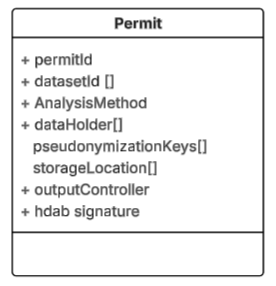
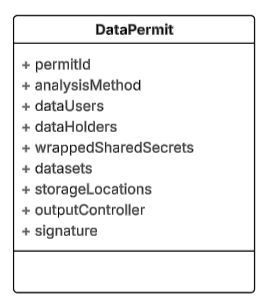
whitepaper added together with various minor edits

Changed region(s): [[0.0296, 0.0, 0.9778, 0.979]]

diff --git a/data_holder.py b/data_holder.py
@@ -55,7 +55,7 @@ class DataHolder:
         raise ValueError(f"No encrypted key entry found for holder {self.name}")
 
     def pseudonymize_identifier(self, identifier: str, domain: str, K: bytes) -> str:
-        """Deterministische pseudonym met HMAC-SHA256."""
+        """generate pseudonym HMAC-SHA256."""
         message = (identifier + domain).encode("utf-8")
         return hmac.new(K, message, hashlib.sha256).hexdigest()
 
@@ -64,16 +64,17 @@ class DataHolder:
         signed_permit_json: bytes,
         identifiers: list[str]
     ) -> list[str]:
-        """Volledig proces: verifiëren → expiratie check → K herstellen → pseudonimiseren."""
+        
+        # verify
         signed_permit = json.loads(signed_permit_json.decode("utf-8"))
         permit_payload = self._verify_permit(signed_permit)
 
-        # Expiratie controle
+        # check expiration
         valid_until = datetime.fromisoformat(permit_payload["valid_until"])
         if valid_until < datetime.now(timezone.utc):
             raise ValueError("Permit has expired")
 
-        # Herstel master K en pseudonimiseer
+        # recover K and pseudonymize
         master_K = self._recover_master_k(permit_payload)
         domain = permit_payload["domain"]
 

diff --git a/data_permit_issuer.py b/data_permit_issuer.py
@@ -22,10 +22,10 @@ class DataPermitIssuer:
         validity_years: int = 1,
         include_raw_k: bool = False
     ) -> dict:
-        # 1. Generate master shared secret K
+        # Generate master shared secret K
         master_K = os.urandom(32)
 
-        # 2. For each holder: encapsulate + encrypt master_K with derived key
+        # For each holder: encapsulate + encrypt master_K with derived key
         encrypted_keys = []
         for holder in data_holders:
             kem = oqs.KeyEncapsulation("ML-KEM-768")
@@ -46,7 +46,7 @@ class DataPermitIssuer:
                 "encrypted_master_k_base64": base64.b64encode(ct).decode("utf-8")
             })
 
-        # 3. Build payload and sign
+        # Build payload and sign
         issued_at = datetime.now(timezone.utc)
         valid_until = issued_at + relativedelta(years=validity_years)
 
@@ -58,7 +58,6 @@ class DataPermitIssuer:
             "encrypted_keys": encrypted_keys
         }
 
-        # Optional debug print (fixed)
         print(">>>>>> Permit payload (before signing):")
         print(json.dumps(permit_payload, indent=2))
 

diff --git a/utils.py b/utils.py
@@ -11,6 +11,6 @@ def generate_ml_kem_keypair():
 def generate_ml_dsa_keypair():
     """Generate ML-DSA-65 keypair."""
     sig = oqs.Signature("ML-DSA-65")
-    public_key = sig.generate_keypair()  # Must call this first
-    secret_key = sig.export_secret_key()  # Now available
+    public_key = sig.generate_keypair()
+    secret_key = sig.export_secret_key()
     return {"public_key": public_key, "secret_key": secret_key}

diff --git a/WHITEPAPER.md b/WHITEPAPER.md
@@ -1,34 +1,64 @@
 ## A Cryptographic Data Permit Mechanism for Secure Secondary Use of Health Data in the European Health Data Space
 
-#### A Privacy-Enhancing Proposal the European Health Data Space (EHDS) originally defined for the Dutch Health Data Access Body (HDAB-NL)
+
+####  HDAB-Coordinated At-Source Pseudonymization Enabling Deterministic Data Linking Across Multiple Data Holders  
+
 ---
 
 ### Abstract
-The European Health Data Space (EHDS) Regulation (EU) 2025/327 enables secondary use of electronic health data while prioritizing privacy. By default, data must be anonymized; pseudonymization is allowed only when necessary to preserve utility, particularly for linking records across multiple datasets on national level and across european member states.
 
-Traditional approaches rely on central pseudonymization, requiring data holders (DH) to transmit identifiable data to a central party, which introduces significant privacy risks during transfer.
+The European Health Data Space (EHDS) Regulation (EU) 2025/327 promotes the secondary use of electronic health data while upholding the highest standards of privacy protection. By default, data processed for secondary purposes must be anonymized; pseudonymization is permitted only when essential to preserve analytical utility—particularly to enable reliable linkage of records across datasets from multiple data holders, whether at national level or between EU Member States.
 
-This proposal introduces a cryptographic data permit mechanism enabling pseudonymization at source with consistent, deterministic pseudonyms across all holders. This allows record linking across multiple datasets in a single Secure Processing Environment (SPE) without raw identifiers ever leaving the data holder's premises**.
+Conventional approaches typically employ central pseudonymization services, requiring data holders to transmit identifiable personal data to a trusted third party. This introduces substantial privacy and security risks during data transfer.
 
-The core innovation is key wrapping: an application-specific shared secret is securely distributed to authorized data holders via a **cryptographic data permit**, enabling decentralized yet consistently synchronized pseudonym generation.
+This proposal introduces a cryptographic data permit mechanism that enables pseudonymization at source while ensuring consistent, deterministic pseudonyms across all involved data holders. As a result, reliable record linkage becomes possible within a single Secure Processing Environment (SPE) without raw personal identifiers ever leaving the data holder’s controlled environment.
+
+The core innovation lies in the synergistic combination of the following two elements:
+
+- the use of the data permit as an **active cryptographic** instrument that serves as a secure, auditable authorization and coordination token, and  
+- the use of **key wrapping** to securely distribute a data-application specific shared secret to authorized data holders through this permit.
+
+Together, these enable fully decentralized yet perfectly synchronized pseudonym generation, eliminating the need for raw shared secret transfers while preserving end-to-end privacy and security.
 
 ### Introduction
-The EHDS requires each Member State to designate a HDAB organization to facilitate secondary use of health data. In the Netherlands, the **HDAB-NL program**—led by the Ministry of Health, Welfare and Sport (VWS) with Health-RI, RIVM, CBS, and ICTU—is building infrastructure, governance, a DAAMs, a metadata catalog, and Secure Processing Environments.
 
-#### Key Challenges with multi data holder data integration
-- **Central pseudonymization**: Requires transfer of raw identifiers, introducing postential privacy and security risks.  
-- **Independent at-source pseudonymization**: Results in inconsistent pseudonyms → reliance on fuzzy matching → reduced linkage quality.
-- Coordination of key- and data exchange, end-to-end security
-This proposal aligns with EHDS data minimization principles, maximizing privacy while preserving high-quality data linkage.
+The European Health Data Space (EHDS) Regulation requires each Member State to designate a Health Data Access Body (HDAB) responsible for facilitating the secure secondary use of electronic health data. In the Netherlands, the HDAB-NL programme—led by the Ministry of Health, Welfare and Sport (VWS) in collaboration with Health-RI, RIVM, CBS, and ICTU—is developing the necessary infrastructure, metadata catalogue, data access application management system (DAAMs) and Secure Processing Environments (SPEs).
 
-The proposed solution...
+**Key Challenges in Multi-Data-Holder Integration**
+Integrating data from multiple independent data holders while complying with strict EHDS privacy requirements presents several fundamental difficulties:
+- **Central pseudonymization**: This approach requires data holders to transfer raw personal identifiers to a trusted third party, creating significant privacy and security risks during transmission and temporary storage.
+- **Independent at-source pseudonymization**: While safer, it produces inconsistent pseudonyms across holders, forcing reliance on probabilistic (fuzzy) matching techniques and resulting in reduced linkage quality and analytical utility.
+- **Coordination and end-to-end security**: Orchestrating secure key distribution, data exchange, access controls, and workflow synchronisation across decentralised parties remains complex and error-prone.
+
+This proposal directly addresses these challenges. It aligns fully with EHDS data minimisation and privacy-by-design principles by enabling pseudonymization at source with deterministic consistency, thereby maximising privacy protection while preserving high-quality cross-data-holder record linkage.
+
+### The Proposed Solution
+The solution introduces a **cryptographic data permit mechanism** in which the HDAB issues a machine-readable, digitally signed permit that serves as both an authorisation token and a secure coordination instrument. Through **key wrapping**, the permit securely distributes a project-specific shared secret to all authorised data holders, enabling them to perform consistent deterministic pseudonymization locally. The resulting pseudonymised datasets are uploaded to designated storage locations, where they can be mounted and linked within a Secure Processing Environment—without raw personal identifiers ever leaving the data holders’ controlled environments. 
+
+This approach eliminates the privacy risks of central identifier transfer, avoids the linkage degradation of uncoordinated pseudonymization, and provides the HDAB with a robust mechanism to orchestrate secure, auditable, and EHDS-compliant multi-holder data provision. 
+
+The mechanism is equally applicable to cross-border data linkage. However, the effectiveness of deterministic pseudonymization for reliable record linkage depends on the availability of uniform or harmonised personal identifiers (e.g., national ID numbers, health insurance IDs, or other stable direct identifiers) across the participating data holders and Member States. In cases where such uniform identifiers are absent or inconsistent, supplementary techniques—such as probabilistic matching or additional privacy-preserving record linkage methods—may be required to achieve sufficient linkage quality.
+
+In order to facilitate seamless, privacy-preserving cross-border secondary use of health data as envisaged by the EHDS, this cryptographic data permit mechanism is proposed for adoption at the European level.
 
 ### Core Concept
-The core idea is to use the **data permit as a cryptographically signed authorization and coordination token** that enables secure, privacy-preserving secondary use of health data **without the need to disclose personal identifiers**. This permit could be additional to the 'paper' permit or can be embedded in the permit.
 
-The data permit acts as an machine-readable **active cryptographic mechanism** that enables secure data exchange, authorizations and record linkage across datasets.
+The core concept revolves around transforming the data permit into a **cryptographically signed, machine-readable authorization and coordination token**. This active cryptographic instrument enables secure, privacy-preserving secondary use of electronic health data **without ever disclosing raw personal identifiers to third parties** or the data user.
 
-### Permit Mechanism Description
+The permit can either complement an existing administrative ("paper") permit or fully integrate its cryptographic functionality into the standard EHDS data permit. By embedding securely wrapped shared secrets and explicit workflow instructions, the data permit becomes an **operational cryptographic mechanism**. 
+
+A operational cryptographic data permit facilitates:
+- secure authorization of data holders and data users,
+- coordinated at-source pseudonymization with deterministic consistency
+- controlled provision of pseudonymized datasets to designated storage locations
+- reliable record linkage across multiple pseudonymized datasets within a SPE
+
+This design ensures end-to-end privacy while providing the Health Data Access Body (HDAB) with a powerful, auditable tool for orchestrating compliant multi-holder and cross-border data access.
+
+### Detailed Solution Description
+
+#### Mechanism Overview
+
 ![Diagram](images/figure1.png)
 Figure 1. Mechanism Overview
 
@@ -37,19 +67,29 @@ Figure 1. Mechanism Overview
 3. Data holders **unwrap the shared secret**, with their own private key
 4. Data holders perform **local pseudonymization** on the requested dataset based on the shared secret
 5. Data holders place the pseudonymized dataset on the **specific storage location** as indicated by the permit
-6. In the SPE, the authenticated data user uploads the permit, ingests the pseudonymized datasets on storage locations indicated in the permit and and **links the datasets** based on the pseudonomized records
+6. In the SPE, the authenticated data user uploads the permit, ingests the pseudonymized datasets from the storage locations indicated in the permit and and **links the datasets** based on the pseudonomized records
 7. The linked dataset is **available for analysis**
-
-Additionally
-The research result can be made available in a dedicated storage location (indicated in the permit) for an output controller to be checked using a separate SPE, specifically for this purpose, without risk on exposing the linked dataset to the controller.
-
-### Detailed Solution Description
+- Once the research is completed, output control can be carried out by the output controller as indicated in the permit
 
 
-#### Permit
+#### Identities
+
+Data holders generate a public–private key pair upfront, leveraging eIDAS-compatible or national public key infrastructure (PKI). The corresponding public keys are registered with the HDAB and are used to authenticate the data holders and to enable secure cryptographic operations, such as the wrapping of shared secrets.
+
+Data users are required to generate and register certified public keys with the HDAB infrastructure. These keys are used to establish their identity, authenticate access requests, and, where applicable, to verify authorisations and signatures associated with issued permits. All registered keys must be issued or certified by a trusted certificate authority recognised by the HDAB.
+
+Key lifecycle management, including key rotation, revocation, and expiry, is governed by the applicable PKI policies and is enforced by the HDAB to ensure continued trust in participant identities.
+
+#### Permit issuance
+
+The HDAB generates a random, data-application-specific shared secret K. For each authorised data holder, K is individually encrypted ("wrapped") using the holder’s registered public key, e.g., via RSA-OAEP or post-quantum ML-KEM. Demos included, RSA: [demo_rsa.py](demo_rsa.py), Post Quantum KEM/DSA: [demo_pq.py](demo_pq.py)
+
+The resulting data permit object (Figure 2) binds together the authorised parties, datasets, analysis method, and cryptographic material required to securely execute the approved data application.
 
 ![Diagram](images/figure2.png)
-Figure 2. Data permit object attributes
+Figure 2. Data permit object
+
+Data permit attributes:
 
 - **permitId** is the unique identifier given to the permit by the issuing HDAB
 - **dataUsers** list of authorized data users
@@ -60,51 +100,50 @@ Figure 2. Data permit object attributes
 - **outputController** identity of the designated output controller
 - **signature** added to the permit by the issuing HDAB for verification by the data holders and validated at the issuing certificate authority
 
+Once issued, the permit is distributed to the relevant data holders and data users. Each data holder verifies the HDAB signature, decrypts its wrapped instance of K, and enforces access and processing controls in accordance with the permit attributes. The shared secret K is used exclusively within the scope of the specified data application and analysis method
+
 > **Note:** Above permit only shows attributes relavant for demonstrating the mechanism, full sample permit available in [sample_permit.json](sample_permit.json) 
 
-#### Identities
-- Data holders generate a keypair upfront and register certified public keys with the HDAB (leveraging eIDAS-compatible infrastructure or national PKI infrastructure)
-- data users use an eIDAS-compatible identity
-
 #### Authorization
-- **authorization** on the storage locations for the participants of the data application, typically data holders to be able to store the pseudonomized data sets and for the data user to be access the data sets in the storage locations.
+
+The data permit explicitly defines and enables the following authorisations:
+- Write access for data holders: Each authorised data holder receives temporary, scoped write permissions to the specific storage location(s) indicated in the permit for their dataset(s). This allows them to upload the locally pseudonymised dataset after processing, while preventing read access to other holders’ data or unrelated locations.
+- Read access for data users in the SPE: Authenticated data users (researchers) are granted read-only access to all relevant storage locations, but only within the Secure Processing Environment. The SPE mounts these locations based on the validated permit, ensuring that data ingestion occurs in an isolated, controlled setting with no possibility of exfiltration of raw or pseudonymised data outside the SPE.
+- No direct access outside the workflow: Neither data holders nor data users can access the storage locations outside the permit-defined context. Permissions are time-bound (aligned with the permit’s validity period) and purpose-specific, automatically revoked upon expiry or completion of the application.
+- Auditable and revocable: All access grants are traceable to the signed permit, enabling the HDAB to monitor compliance and revoke permissions if necessary (e.g., in case of misuse or project termination). d
 
 #### Key exchange
-- HDAB public key
-For simplicity, in the current implementation, the public key of the HDAB is added to the permit. The certificate is to be validated at the issuing certificate authority.
-- Public keys of Data holders are added to the permit in the list of data holders together with an index so that the certificate can be ascociated with the dataset id and storage location
+
+- **HDAB public key** The permit includes the HDAB’s public key to enable participants to verify the HDAB’s digital signature on the permit itself. In this proof-of-concept implementation, the full public key is embedded directly in the permit for simplicity and immediate usability. In production deployments, data holders and SPEs should validate the HDAB’s signing certificate against a trusted national or eIDAS-qualified certificate authority, eliminating the need to embed the key and allowing standard revocation checking (CRL/OCSP)
+- **Data Holder Public Keys** Each authorised data holder registers a certified public key (e.g., RSA-2048/3072 or post-quantum equivalent) with the HDAB in advance.
+These public keys are included in the permit within the structured dataHolders array
+- **Data User Identities** The identities of authorised data users (researchers or analysts) are explicitly listed in the permit under the dataUsers field. Each entry includes a strong, verifiable identifier (preferably an eIDAS-qualified electronic identification or a national researcher registry URN), along with optional human-readable attributes such as name, organisation, and role.
+These identities serve as the basis for authentication and access control within the Secure Processing Environment (SPE). The SPE validates the uploaded permit and grants access only to users whose authenticated identity matches one of the listed entries, ensuring that only approved individuals can ingest datasets, perform linkage, and conduct analysis.
 
 #### Key wrapping
-In order to be able to share the pseudonymization key across data holders:
-1. HDAB generates a random shared secret `K` scoped to the project (and potentially validity period).  
-2. For each authorized holder `DHᵢ` the shared secret K is encrypted so that only that specific data holder is able to decrypt a single shared secret. This means that for a data application with 3 dataholders the shared secret is available three times, for all data holder but encrypted with the public key of the specific dataholder.
+
+In order to be able to share the pseudonymization key across data holders, the designated HDAB generates a random shared secret `K`, specific for each data application.    For each authorized holder `DHᵢ` the shared secret `K` is encrypted so that only that specific data holder is able to decrypt a single shared secret. This means that for a data application with multiple dataholders the wrapped shared secret appears multiple times in in the permit, each wrapped for a specific dataholder.
 
    ```text
    wrappedSecretᵢ = PK-Encrypt(PubKeyᵢ, K)
    ```
+Each dataholder unwraps the shared secret K and uses this for pseudonymization. There is no reason for the data holder to store the shared secret since it it can be directly derived from the permit.
 
 ##### storage locations
 
+The cryptographic data permit explicitly designates storage locations for the pseudonymised datasets contributed by each data holder. These locations—typically access-controlled object storage buckets (e.g., S3-compatible endpoints), encrypted repositories, or equivalent cloud-based storage services—act as secure, neutral intermediaries between data holders and the Secure Processing Environment (SPE).
 
+## Extensibility
 
-### Key Benefits
-- Raw personal data never leaves the data holder’s environment  
-- Deterministic linkage across multiple holders  
-- Full EHDS compliance (Recital 72, Article 33)  
-- Post-quantum ready: Supports ML-KEM for key encapsulation and ML-DSA for signing  
-- Extendable by design via `analysis_mode`. Currenlty on deterministric pseudonymization but the mechanism allows for future processing types like multi-party computation, federated analytics and federated learning
+This mechanism can also be extended to support additional privacy-preserving analysis paradigms beyond deterministic pseudonymization. By including an extensible analysisMode field in the permit, future modes such as secure multi-party computation (MPC) queries, federated learning, and federated analytics can be supported by instructing the data holders how to prepare the data. In these modes, the same cryptographic permit serves as the coordination and authorisation vehicle.
 
-### Features / implementation choices
-- Classic RSA mode: RSA-OAEP key transport + RSA-PSS signing  
-- Post-quantum mode: ML-KEM-768 + AES-GCM wrapping + ML-DSA-65 signing  
-- Deterministic pseudonymization via HMAC-SHA256 
-- Time-bound, domain-scoped, purpose-specific permits  
-- Canonical JSON payload, digitally signed by the issuing HDAB  
-- Modular, pure-Python, well-documented, extensible code  
-- the pseudonyms enable anonynization of the records which relation to patients can be made by the dataholders   
+### Conclusion
 
-#### Technology / implementation choices
-- based on asymetric cryptography
-- peer-to-peer API based model
-- no propriatary networks required
-- the data itself is encrypted as well as the transport and while at rest
+The cryptographic data permit mechanism presented in this whitepaper offers a robust, privacy-enhancing solution for the secure secondary use of electronic health data within the European Health Data Space (EHDS). By transforming the conventional data permit into an active cryptographic instrument, it enables at-source pseudonymization with deterministic consistency across multiple data holders, while ensuring that raw personal identifiers never leave the controlled environment of the data holder.
+
+**Key Benefits**
+- Maximum Privacy Protection: Raw personal data remains confined to the data holder's premises, eliminating the risks associated with centralised identifier transfers.
+- High-Quality Record Linkage: Deterministic pseudonyms allow precise cross-data-holder and cross-border linkage in Secure Processing Environments, preserving essential analytical utility.
+- Full EHDS Compliance: The approach aligns with the Regulation's emphasis on data minimisation, pseudonymization only when necessary (as justified for linkage under relevant provisions, including Recital 72 on early de-identification), and strong technical safeguards.
+- Future-Proof Design: Post-quantum readiness through support for ML-KEM key encapsulation and ML-DSA signing protects against emerging quantum threats.
+

diff --git a/README.md b/README.md
@@ -1,4 +1,4 @@
-# A Cryptographic Data Permit Mechanism for Secure Secondary Use of Health Data in the European Health Data Space
+# A Cryptographic Data Permit Mechanism for Secure Secondary Use of Health Data in the European Health Data Space (EHDS)
 
 [![EHDS Proposal](https://img.shields.io/badge/EHDS-Proposal-blue)](https://eur-lex.europa.eu/legal-content/EN/TXT/?uri=CELEX:32025R0327)
 [![Whitepaper](https://img.shields.io/badge/View-Whitepaper-blue?logo=github)](WHITEPAPER.md)
@@ -7,26 +7,29 @@
 [![Python](https://img.shields.io/badge/Python-3.10+-blue)](https://www.python.org/)
 
 
-### Overview
+### Introduction
 
 This repository contains a proof-of-concept implementation of a **cryptographic data-permit mechanism** for secure data exchange and pseudonymization across data-holder environments governed by a Health Data Access Body (HDAB), in line with the European Health Data Space (EHDS) Regulation (EU) 2025/327.
 
-The mechanism transforms the standard EHDS data permit into an **active cryptographic coordination token**, enabling secure exchange and combination of health from different sources while keeping personal identifiers (like BSN, the Dutch Citizen Service Number) decentralized at the data holders.
+The mechanism transforms the EHDS data permit issued by a Health Data Access Body (HDAB) into an **active cryptographic coordination token**, enabling secure exchange and combination of healthdata from different sources while keeping personal identifiers (ie. BSN (the Dutch Citizen Service Number)) decentralized at the data holders.
 
-This proof-of-concept repository is accompanied by a detailed whitepaper that describes the full protocol design, security considerations, EHDS compliance rationale, threat model, and planned extensions for advanced privacy-preserving analysis modes. 
+This proof-of-concept code is accompanied by a detailed whitepaper that describes the full protocol design, security considerations, EHDS compliance rationale, and potential extensions for additional analysis modes.
 
-**A Cryptographic Data Permit Mechanism for Secure Secondary Use of Health Data in the European Health Data Space**  
-December 2025
+### Whitepaper
 
-[Read the whitepaper here](WHITEPAPER.md)
+[A Cryptographic Data Permit Mechanism for Secure Secondary Use of Health Data in the European Health Data Space](WHITEPAPER.md)
 
 ### Quick Start
 
 ```bash
+
+# liboqs may need to be built from source using the Open Quantum Safe repository.
+./install_oqs.sh
+
 # Install dependencies
 pip install -r requirements.txt
 
-# Classical RSA Demo (deterministic distributed pseudonymization)
+# Classic RSA Demo (deterministic distributed pseudonymization)
 python demo.py
 
 # Post-Quantum Demo (deterministic distributed pseudonymization)
